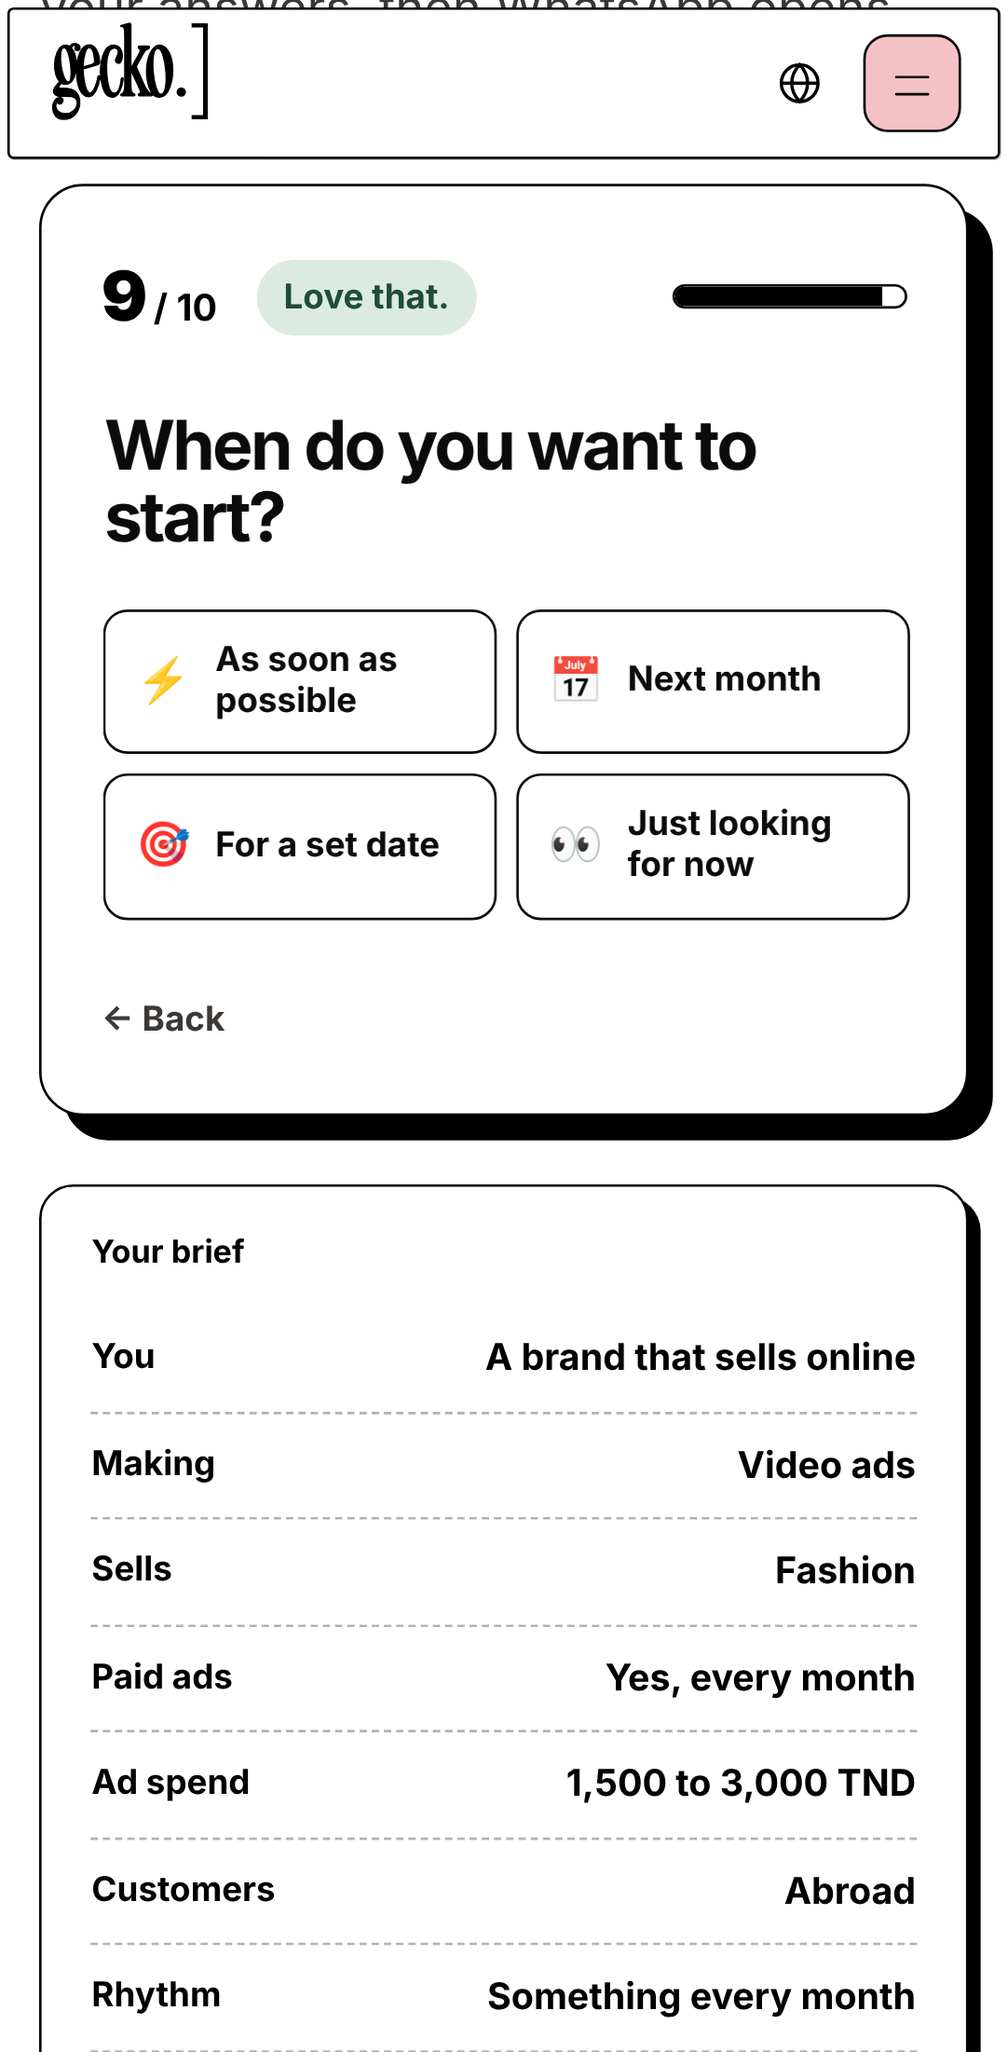
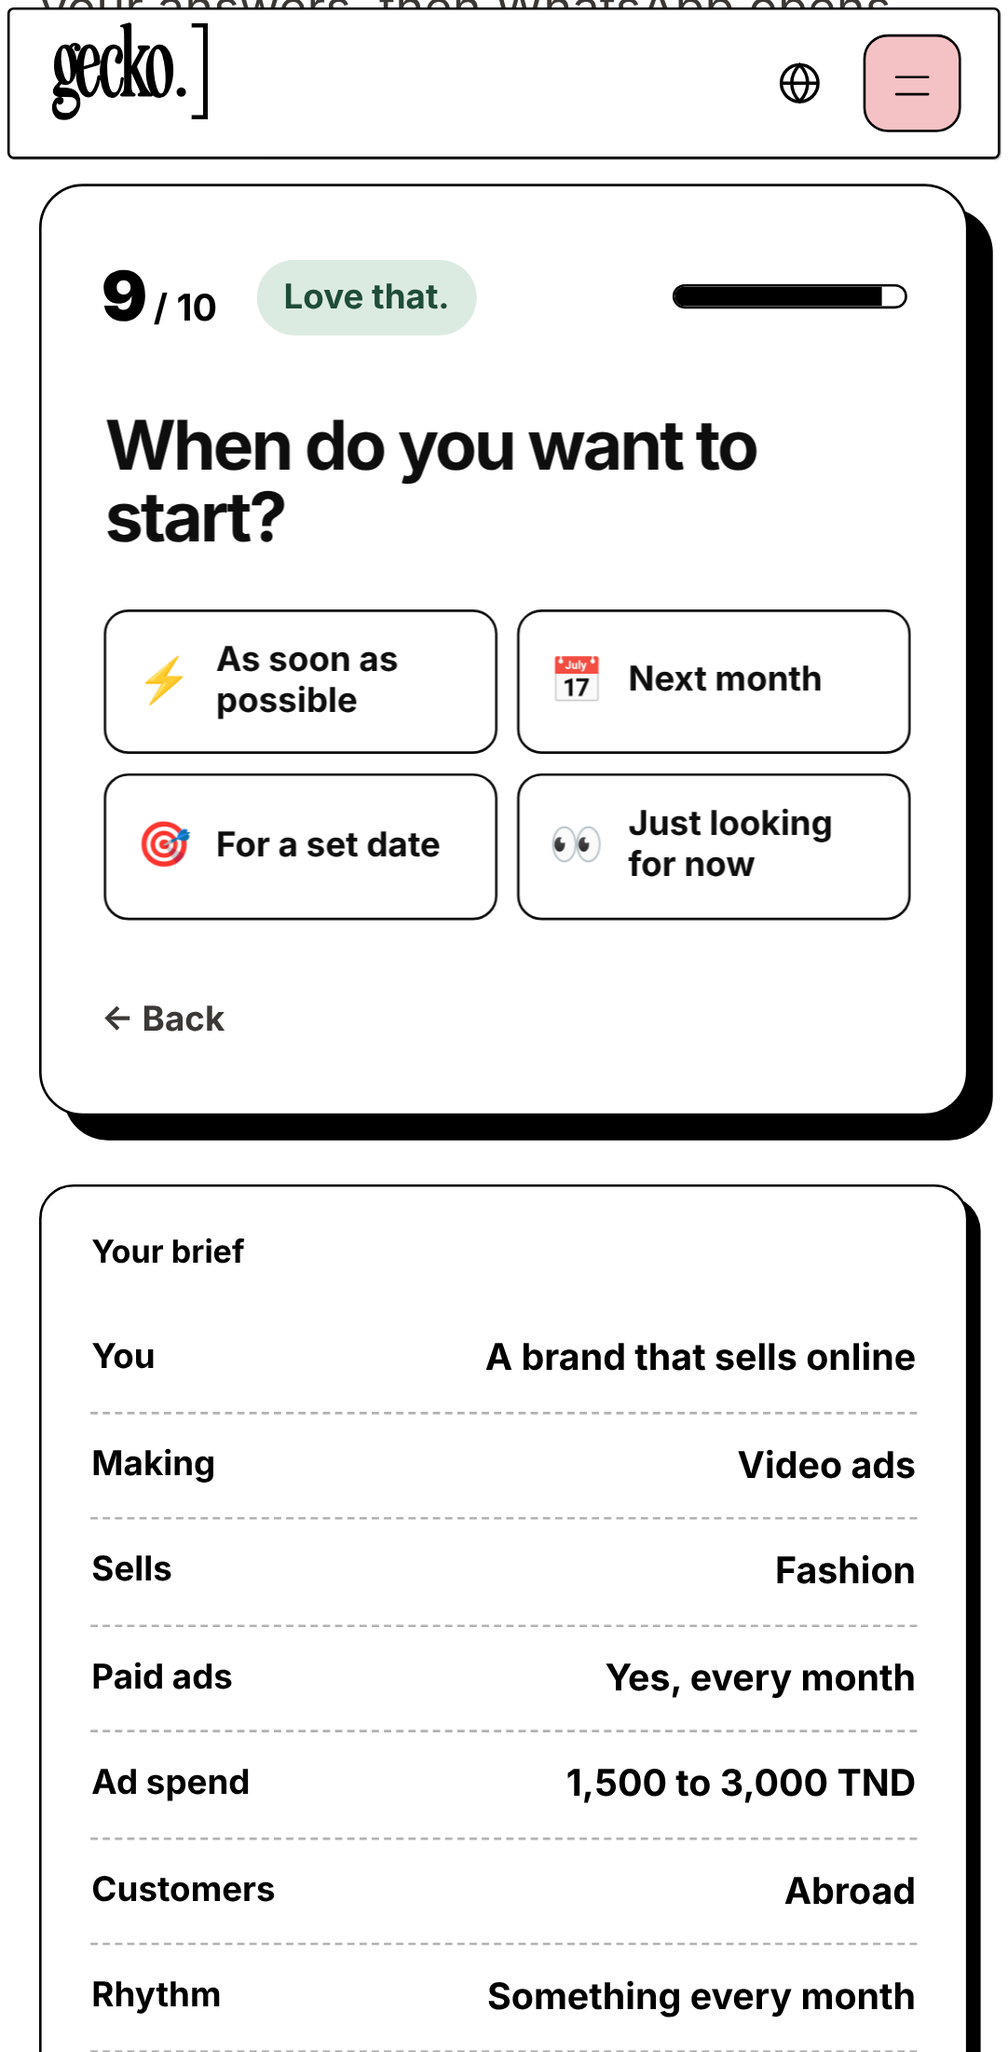
Pro at 3,800, first draft in 7 days, outside costs advanced and billed with the balance, contact polish
Claude-Session: https://claude.ai/code/session_01DXd88GB5XEffdg8LArZGiA

diff --git a/src/i18n/copy.ts b/src/i18n/copy.ts
@@ -22,7 +22,7 @@ const en = {
       items: [
         { short: 'Two hooks', t: 'Two openings for every reel.', d: 'The first two seconds decide who keeps watching. Each reel comes with two hooks, and your results show which one stops people.' },
         { short: 'Your script', t: 'You approve the script before we film.', d: 'You read every script and change what you want. Nothing on set or in the edit comes as a surprise.' },
-        { short: 'One team', t: 'One team, from brief to final cut.', d: 'The people who write your ads also shoot and edit them, so nothing gets lost on the way. Your ads arrive 7 days after the shoot.' },
+        { short: 'One team', t: 'One team, from brief to final cut.', d: 'The people who write your ads also shoot and edit them, so nothing gets lost on the way. Your first draft arrives 7 days after the shoot.' },
         { short: 'Your results', t: 'We read the results with you.', d: 'Each month we go through what sold and what didn’t, and write the next round from it.' },
       ],
       hooks: { same: 'Same reel, two openings', a: 'Hook A', b: 'Hook B', lines: ['“Your serum isn’t the problem.”', '“I tried six serums so you don’t have to.”'] },
@@ -44,7 +44,7 @@ const en = {
     scope: 'Creative production. You run your ads and pay the ad spend. We review the results you share and shape the next round from them.',
     scopePartner: 'Creative production with market analysis and a weekly review. You run your ads and pay the ad spend, on every plan.',
     spec: { shoot: 'Production', review: 'After delivery', out: 'Not included: ad spend, studio, talent and props.' },
-    bespokeName: 'Bespoke project', bespokeMeta: 'Quoted from your brief', bespokeFor: 'For launches, films and campaigns that need more than a monthly plan.', bespokePrice: 'On quote', bespokeNote: 'Scoped and quoted from your brief. Studio, talent and props are quoted separately, and you approve each cost before it’s booked.',
+    bespokeName: 'Bespoke project', bespokeMeta: 'Quoted from your brief', bespokeFor: 'For launches, films and campaigns that need more than a monthly plan.', bespokePrice: 'On quote', bespokeNote: 'Scoped and quoted from your brief. Studio, talent and props are on you: you approve each cost, we pay it upfront and invoice it with the remaining 50%.',
     custom: 'Custom price', customShort: 'custom', customNote: 'Priced to your volume, from 20 to 100 reels a month.', upTo: 'to',
   },
   apply: {
@@ -121,11 +121,11 @@ const en = {
       { t: 'The conversation', d: 'We talk about your product, your customers and what you’ve tried so far.', you: 'Tell us what sells best and share your current ads.' },
       { t: 'Scope and quote', d: 'Deliverables, dates and price, agreed in writing.', you: 'Approve the quote.', tag: 'ok' },
       { t: 'Deposit', d: 'A 50% deposit confirms the booking and holds your production date.', you: 'Pay the deposit.', tag: 'pay' },
-      { t: 'Pre-production', d: 'Research, angles, talent, location and props. Any studio, talent or prop costs come to you before anything is booked.', you: 'Approve outside costs.', tag: 'ok' },
+      { t: 'Pre-production', d: 'Research, angles, talent, location and props. Studio, talent and prop costs are on you: you approve each one before it’s booked, and we pay it upfront.', you: 'Approve outside costs.', tag: 'ok' },
       { t: 'Scripts and direction', d: 'Every script with its hooks, and the look of the shoot. Nothing is filmed before you say yes.', you: 'Approve each script, or ask for changes.', tag: 'ok' },
       { t: 'Production and edit', d: 'The shoot, then the edit: 9:16 and 4:5, subtitles and licensed music.', you: 'Have the product ready. We bring the rest.' },
-      { t: 'Preview', d: 'You review watermarked, view-only previews. One round of changes per piece.', you: 'Approve the delivered ads.', tag: 'ok' },
-      { t: 'Balance', d: 'The remaining 50% is due once you’ve approved the delivered ads.', you: 'Pay the balance.', tag: 'pay' },
+      { t: 'First draft', d: '7 days after the shoot, you review the first draft as watermarked, view-only previews. One round of changes per piece.', you: 'Approve the delivered ads.', tag: 'ok' },
+      { t: 'Balance', d: 'The remaining 50% is due once you’ve approved the delivered ads, together with the invoices for any studio, talent or props we paid upfront.', you: 'Pay the balance.', tag: 'pay' },
       { t: 'Final delivery', d: 'Final files, ready to download. Raw footage isn’t part of standard delivery.', you: 'Download and post.' },
       { t: 'Results and the next round', d: 'We go through your ad and sales results with you and use them to brief the next round.', you: 'Share what the numbers show.' },
     ],
@@ -165,7 +165,7 @@ const en = {
     splitTitle: 'What you’re paying for.',
     make: { t: 'Creative production', tag: 'Every plan', d: 'Research, scripts, the shoot and the edit. Each month we go through your ad and sales results with you and use them to shape the next round.' },
     run: { t: 'Performance review', tag: 'Every monthly plan', d: 'You share your ad and sales results, we read them with you, and the next round is written from what they show. Creative Partner adds market analysis, KPIs we track together and a weekly review. Running the ads and paying the ad spend stay with you on every plan.' },
-    costs: { t: 'Outside production costs', tag: 'Quoted separately', d: 'Studio rental, talent, props and other outside costs are separate from our fee. We coordinate them, you approve each one before it’s booked, and you get the invoices or receipts.' },
+    costs: { t: 'Outside production costs', tag: 'Quoted separately', d: 'Studio rental, talent, props and other outside costs are separate from our fee. You approve each one before it’s booked, we pay it upfront, and the invoices are added to your remaining 50%.' },
     every: 'In every plan',
     oneOff: 'Not ready for a monthly plan?',
     oneOffSub: 'Start with one of these, then move to a plan once you see what works.',
@@ -237,7 +237,7 @@ const fr: Copy = {
     scope: 'Production créative. Vous lancez vos pubs et payez le budget pub. On étudie les résultats que vous partagez et on construit la suite à partir d’eux.',
     scopePartner: 'Production créative avec analyse de marché et revue hebdomadaire. Vous lancez vos pubs et payez le budget pub, sur chaque plan.',
     spec: { shoot: 'Production', review: 'Après la livraison', out: 'Non inclus\u00a0: budget pub, studio, talents et accessoires.' },
-    bespokeName: 'Projet sur mesure', bespokeMeta: 'Sur devis', bespokeFor: 'Pour les lancements, films et campagnes qui demandent plus qu’un plan mensuel.', bespokePrice: 'Sur devis', bespokeNote: 'Cadré et chiffré selon votre brief. Studio, talents et accessoires sont chiffrés à part, et vous validez chaque coût avant réservation.',
+    bespokeName: 'Projet sur mesure', bespokeMeta: 'Sur devis', bespokeFor: 'Pour les lancements, films et campagnes qui demandent plus qu’un plan mensuel.', bespokePrice: 'Sur devis', bespokeNote: 'Cadré et chiffré selon votre brief. Studio, talents et accessoires sont à votre charge : vous validez chaque coût, on l’avance et on le facture avec les 50 % restants.',
     custom: 'Prix sur mesure', customShort: 'sur mesure', customNote: 'Selon votre volume, de 20 à 100 reels par mois.', upTo: 'à',
   },
   apply: {
@@ -313,11 +313,11 @@ const fr: Copy = {
       { t: 'La discussion', d: 'On parle de votre produit, de vos clients et de ce que vous avez déjà essayé.', you: 'Dites-nous ce qui se vend le mieux et partagez vos pubs actuelles.' },
       { t: 'Périmètre et devis', d: 'Livrables, dates et prix, validés par écrit.', you: 'Validez le devis.', tag: 'ok' },
       { t: 'Acompte', d: 'Un acompte de 50 % confirme la réservation et bloque votre date de production.', you: 'Réglez l’acompte.', tag: 'pay' },
-      { t: 'Préproduction', d: 'Recherche, angles, talents, lieu et accessoires. Tout coût de studio, de talent ou d’accessoire vous est soumis avant la moindre réservation.', you: 'Validez les coûts externes.', tag: 'ok' },
+      { t: 'Préproduction', d: 'Recherche, angles, talents, lieu et accessoires. Les coûts de studio, de talents et d’accessoires sont à votre charge : vous validez chacun avant réservation, et on les avance.', you: 'Validez les coûts externes.', tag: 'ok' },
       { t: 'Scripts et direction', d: 'Chaque script avec ses accroches, et l’esthétique du tournage. Rien n’est filmé sans votre accord.', you: 'Validez chaque script, ou demandez des changements.', tag: 'ok' },
       { t: 'Tournage et montage', d: 'Le tournage, puis le montage : 9:16 et 4:5, sous-titres et musique sous licence.', you: 'Préparez le produit. On apporte le reste.' },
-      { t: 'Aperçu', d: 'Vous regardez des aperçus filigranés, en lecture seule. Une série de retouches par pièce.', you: 'Validez les pubs livrées.', tag: 'ok' },
-      { t: 'Solde', d: 'Les 50 % restants sont dus une fois les pubs livrées validées.', you: 'Réglez le solde.', tag: 'pay' },
+      { t: 'Premier montage', d: '7 jours après le tournage, vous découvrez le premier montage en aperçus filigranés, en lecture seule. Une série de retouches par pièce.', you: 'Validez les pubs livrées.', tag: 'ok' },
+      { t: 'Solde', d: 'Les 50 % restants sont dus une fois les pubs livrées validées, avec les factures du studio, des talents ou des accessoires que nous avons avancés.', you: 'Réglez le solde.', tag: 'pay' },
       { t: 'Livraison finale', d: 'Les fichiers finaux, prêts à télécharger. Les rushes ne font pas partie de la livraison standard.', you: 'Téléchargez et publiez.' },
       { t: 'Résultats et suite', d: 'On passe en revue vos résultats pub et ventes avec vous, et on s’en sert pour briefer la suite.', you: 'Partagez ce que montrent les chiffres.' },
     ],
@@ -357,7 +357,7 @@ const fr: Copy = {
     splitTitle: 'Ce que vous payez.',
     make: { t: 'Production créative', tag: 'Dans chaque plan', d: 'Recherche, scripts, tournage et montage. Chaque mois, on passe en revue vos résultats pub et ventes avec vous pour orienter la suite.' },
     run: { t: 'Revue des performances', tag: 'Chaque plan mensuel', d: 'Vous partagez vos résultats pub et ventes, on les lit avec vous, et la suite s’écrit à partir de ce qu’ils montrent. Creative Partner ajoute l’analyse de marché, des KPIs suivis ensemble et une revue hebdomadaire. Lancer les pubs et payer le budget pub restent de votre côté, sur chaque plan.' },
-    costs: { t: 'Coûts de production externes', tag: 'Chiffrés à part', d: 'Location de studio, talents, accessoires et autres coûts externes sont distincts de nos honoraires. On les coordonne, vous validez chacun avant réservation, et vous recevez les factures ou reçus.' },
+    costs: { t: 'Coûts de production externes', tag: 'Chiffrés à part', d: 'Location de studio, talents, accessoires et autres coûts externes sont distincts de nos honoraires. Vous validez chacun avant réservation, on les avance, et les factures s’ajoutent à vos 50 % restants.' },
     every: 'Dans chaque plan',
     oneOff: 'Pas prêt pour un plan mensuel ?',
     oneOffSub: 'Commencez par l’une de ces offres, puis passez à un plan quand vous voyez ce qui marche.',

diff --git a/src/i18n/strings.ts b/src/i18n/strings.ts
@@ -36,7 +36,7 @@ export const strings = {
       how: [
         { t: 'We look at your ads and your comments', d: 'What you’ve run, what sold, and the words your customers use in comments and DMs.' },
         { t: 'We write angles and scripts', d: 'Several reasons to buy per product, two openings each. You approve every script before we shoot.' },
-        { t: 'We shoot', d: 'One shoot day gives you a month of ads, delivered 7 days later in 9:16 and 4:5.' },
+        { t: 'We shoot', d: 'One shoot day gives you a month of ads, with a first draft 7 days later in 9:16 and 4:5.' },
         { t: 'We test and keep what sells', d: 'Every ad gets a code. We read cost per message or per order with you and make more of what works.' },
       ],
       teamTitle: 'Who makes them',
@@ -141,7 +141,7 @@ export const strings = {
       monthlyNote: '3 months minimum, then month to month with 30 days’ notice.',
       oneOffTitle: 'One-off',
       allIn: 'In every offer',
-      allInList: ['Scripts approved before the shoot', 'Subtitles and licensed music', '9:16 and 4:5 exports', '1 revision round per piece', 'Delivery 7 days after the shoot'],
+      allInList: ['Scripts approved before the shoot', 'Subtitles and licensed music', '9:16 and 4:5 exports', '1 revision round per piece', 'First draft 7 days after the shoot'],
       addonsTitle: 'Add-ons',
       termsTitle: 'How payment works',
       terms: [
@@ -169,13 +169,14 @@ export const strings = {
       { q: 'Who owns the ads?', a: 'You can use every delivered piece on your own channels and ads. Raw footage isn’t part of standard delivery.' },
       { q: 'How many revisions?', a: 'One list of changes per piece, sent within 3 days of delivery.' },
       { q: 'Do you run the ads too?', a: 'No, on every plan. You or your media buyer run the ads and pay the ad spend. We make the creative, review the results you share with us and use them to shape the next round. Creative Partner adds market analysis, KPIs we track together and a weekly review.' },
-      { q: 'Are studio, talent and props included?', a: 'No. They’re separate from our fee. We coordinate them, you approve each cost before anything is booked, and you get the invoices or receipts.' },
+      { q: 'Are studio, talent and props included?', a: 'No. They’re paid by you, separate from our fee. You approve each cost before anything is booked, we pay it upfront, and the invoice is added to your remaining 50%.' },
       { q: 'Do you take on bigger productions?', a: 'Yes, for the right brief: launch campaigns, brand films, special campaigns and product films. Each one is scoped and quoted from your brief.' },
       { q: 'Where do you shoot?', a: 'At your shop, office or warehouse in Grand Tunis, or at a location we find. Further away, travel is added at cost.' },
       { q: 'Do you work outside Tunisia?', a: 'Yes, remotely or on location. Ask for a quote.' },
       { q: 'What do you need from me before the shoot?', a: 'Your product, a quick call, and a yes on each script. We bring the crew, lights and sound.' },
       { q: 'Can you use footage I already have?', a: 'Yes. Pro and Creative Partner plans include recut ads made from your existing footage.' },
       { q: 'Why start with the Test?', a: 'One short shoot and 3 reels show us both what works for you before you commit to anything monthly.' },
+      { q: 'How fast do I get the ads?', a: 'The first draft arrives 7 days after the shoot. Final files follow once you’ve approved the changes and paid the balance.' },
       { q: 'Which formats do I get?', a: 'Every piece is cut in 9:16 and 4:5, with subtitles and licensed music.' },
       { q: 'Can I see the scripts first?', a: 'Always. Nothing is shot before you approve the script.' },
       { q: 'What if an ad doesn’t perform?', a: 'We say so and change it. We look at the results with you and make more of what works.' },
@@ -224,7 +225,7 @@ export const strings = {
       how: [
         { t: 'On regarde vos pubs et vos commentaires', d: 'Ce que vous avez lancé, ce qui a vendu, et les mots de vos clients dans les commentaires et les messages.' },
         { t: 'On écrit les angles et les scripts', d: 'Plusieurs raisons d’acheter par produit, deux accroches chacune. Vous validez chaque script avant le tournage.' },
-        { t: 'On tourne', d: 'Une journée de tournage donne un mois de pubs, livrées 7 jours après en 9:16 et 4:5.' },
+        { t: 'On tourne', d: 'Une journée de tournage donne un mois de pubs, avec un premier montage 7 jours après, en 9:16 et 4:5.' },
         { t: 'On teste et on garde ce qui vend', d: 'Chaque pub a un code. On lit avec vous le coût par message ou par commande, et on refait ce qui marche.' },
       ],
       teamTitle: 'Qui les fait',
@@ -329,7 +330,7 @@ export const strings = {
       monthlyNote: '3 mois minimum, puis au mois avec 30 jours de préavis.',
       oneOffTitle: 'Ponctuel',
       allIn: 'Dans chaque offre',
-      allInList: ['Scripts validés avant le tournage', 'Sous-titres et musique sous licence', 'Formats 9:16 et 4:5', '1 série de retouches par pièce', 'Livraison 7 jours après le tournage'],
+      allInList: ['Scripts validés avant le tournage', 'Sous-titres et musique sous licence', 'Formats 9:16 et 4:5', '1 série de retouches par pièce', 'Premier montage 7 jours après le tournage'],
       addonsTitle: 'Options',
       termsTitle: 'Paiement',
       terms: [
@@ -357,13 +358,14 @@ export const strings = {
       { q: 'À qui appartiennent les pubs ?', a: 'Vous pouvez utiliser chaque pièce livrée sur vos réseaux et dans vos pubs. Les rushes ne font pas partie de la livraison standard.' },
       { q: 'Combien de retouches ?', a: 'Une liste de modifications par pièce, envoyée sous 3 jours après la livraison.' },
       { q: 'Gérez-vous aussi les campagnes\u00a0?', a: 'Non, sur aucun plan. C’est vous ou votre media buyer qui lancez les pubs et payez le budget pub. On crée les pubs, on étudie les résultats que vous partagez et on s’en sert pour la suite. Creative Partner ajoute l’analyse de marché, des KPIs suivis ensemble et une revue hebdomadaire.' },
-      { q: 'Le studio, les talents et les accessoires sont-ils inclus ?', a: 'Non. Ils sont distincts de nos honoraires. On les coordonne, vous validez chaque coût avant réservation, et vous recevez les factures ou reçus.' },
+      { q: 'Le studio, les talents et les accessoires sont-ils inclus ?', a: 'Non. Ils sont à votre charge, en plus de nos honoraires. Vous validez chaque coût avant réservation, on l’avance, et la facture s’ajoute à vos 50 % restants.' },
       { q: 'Prenez-vous des productions plus grandes ?', a: 'Oui, pour le bon brief : campagnes de lancement, films de marque, campagnes spéciales et films produit. Chacun est chiffré selon votre brief.' },
       { q: 'Où tournez-vous ?', a: 'Dans votre boutique, bureau ou entrepôt dans le Grand Tunis, ou dans un lieu que nous trouvons. Plus loin, le déplacement est facturé au coût réel.' },
       { q: 'Travaillez-vous hors de Tunisie ?', a: 'Oui, à distance ou sur place. Demandez un devis.' },
       { q: 'Que faut-il vous donner avant le tournage ?', a: 'Votre produit, un appel rapide et un feu vert sur chaque script. On apporte l’équipe, la lumière et le son.' },
       { q: 'Pouvez-vous utiliser mes images existantes ?', a: 'Oui. Les plans Pro et Creative Partner incluent des pubs remontées à partir de vos images.' },
       { q: 'Pourquoi commencer par le Test ?', a: 'Un tournage court et 3 reels nous montrent ce qui marche pour vous avant tout engagement mensuel.' },
+      { q: 'Quel est le délai de livraison ?', a: 'Le premier montage arrive 7 jours après le tournage. Les fichiers finaux suivent une fois les retouches validées et le solde réglé.' },
       { q: 'Quels formats je reçois ?', a: 'Chaque pièce est montée en 9:16 et 4:5, sous-titrée, avec une musique sous licence.' },
       { q: 'Puis-je voir les scripts avant ?', a: 'Toujours. Rien n’est tourné avant que vous validiez le script.' },
       { q: 'Et si une pub ne performe pas ?', a: 'On le dit et on la change. On regarde les résultats avec vous et on fait plus de ce qui marche.' },

diff --git a/src/data/offers.ts b/src/data/offers.ts
@@ -1,4 +1,4 @@
-// Prices and plans as Heni set them on 25 Oct (Test 999 one time, Regular 2,900 and Pro 3,500 launch prices with no original price shown, Creative Partner custom, no media buying) (they replace the draft in gecko/plan/offers-and-pricing.md). Prices in TND, excluding VAT.
+// Prices and plans as Heni set them on 25 Oct (Test 999 one time, Regular 2,900 and Pro 3,800 launch prices with no original price shown, Creative Partner custom, no media buying) (they replace the draft in gecko/plan/offers-and-pricing.md). Prices in TND, excluding VAT.
 export type Offer = { key: string; name: string; for?: { en: string; fr: string }; reels?: number; more?: boolean; items: { en: string[]; fr: string[] }; launch: number; standard?: number; top?: number; from?: boolean; custom?: boolean; once?: boolean; max?: number; shoot?: { en: string; fr: string }; review?: { en: string; fr: string }; monthly: boolean };
 
 export const test: Offer = {
@@ -25,7 +25,7 @@ export const monthly: Offer[] = [
   },
   {
     key: 'pro', name: 'Pro', reels: 15,
-    for: { en: 'For brands already running ads that need more variations.', fr: 'Pour les marques qui lancent déjà des pubs et ont besoin de plus de variations.' }, launch: 3500, monthly: true,
+    for: { en: 'For brands already running ads that need more variations.', fr: 'Pour les marques qui lancent déjà des pubs et ont besoin de plus de variations.' }, launch: 3800, monthly: true,
     items: {
       en: ['2 hooks per reel', '6 statics', '2 carousels', '2 recut ads from your footage'],
       fr: ['2 accroches par reel', '6 visuels fixes', '2 carrousels', '2 pubs remontées à partir de vos images'],
